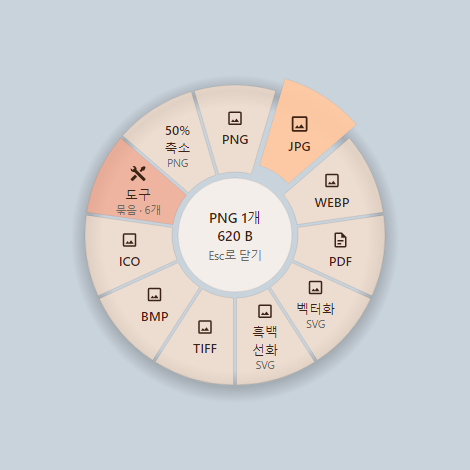
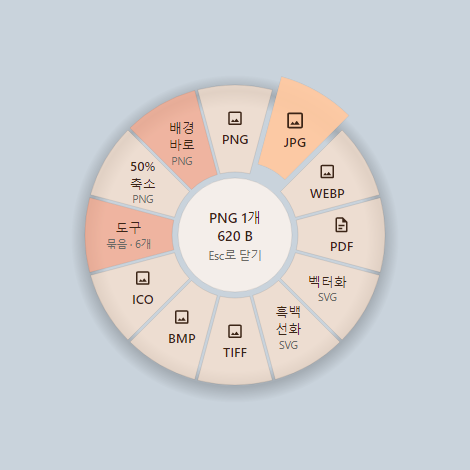
docs: Bingling 1.3 features in the guide, READMEs and changelog
The user guide (ko, en) gets a section on screen capture and the instant
eyedropper, Quick frame, Blur, Find what to hide, Spotlight, the editor
eyedropper and the new shortcut actions, with the key tables and the result
name table updated. The READMEs list the 1.3 features, CHANGELOG has the
1.3.0 section (update block in ko and en, sponsoring removed), and the old
design note says the sponsor window was removed in 1.3. Guide pictures are
refreshed from the Release screenshot tests, plus new ones for the capture
screen, the colour card and what Find finds.

Claude-Session: https://claude.ai/code/session_01TH3SQt2yp4pJo7yb993NAD

diff --git a/docs/manual/en.md b/docs/manual/en.md
@@ -10,15 +10,17 @@
 4. [Reading the ring](#reading-the-ring)
 5. [The six picture tools](#the-six-picture-tools)
 6. [Editor shortcuts](#editor-shortcuts)
-7. [The result card](#the-result-card)
-8. [Settings](#settings)
-9. [FAQ](#faq)
-10. [Credits](#credits)
+7. [Screen capture and eyedropper](#screen-capture-and-eyedropper)
+8. [The result card](#the-result-card)
+9. [Settings](#settings)
+10. [FAQ](#faq)
+11. [Credits](#credits)
 
 ## What is Bingling
 
 Drag files in File Explorer, press <kbd>Ctrl</kbd>, and a ring opens around your cursor (the app calls it the donut toolbar).
 Drop the files on a slot to convert them, or to crop, redact or draw on pictures, without leaving File Explorer.
+Capturing the screen and picking a colour from anywhere on it also happen inside Bingling, with [one shortcut each](#screen-capture-and-eyedropper).
 
 <p align="center"><img src="images/tools-ring-en.png" width="360" alt="The ring for a picture, with the Tools group fanned out"></p>
 
@@ -154,6 +156,7 @@ The **Tools** slot of the picture ring holds six tools. Rest on it and they fan 
 - **Crop, Add background, Redact and Annotate** open an editing window where the ring was.
 - **Compress and Strip metadata** run right away, without a window.
 - Crop, Add background, Redact and Annotate work on single still pictures. If an animated GIF or an icon (ICO) is among the files, their slots are dimmed.
+- The picture ring also has a **Quick frame** slot outside the Tools group. It puts [your last backdrop](#quick-frame) on the pictures without a window.
 
 ### What every editing window has
 
@@ -180,12 +183,14 @@ A word is added to the name. For `photo.jpg`:
 |---|---|
 | Crop | `photo Cropped.jpg` |
 | Add background | `photo with background.png` (always PNG) |
+| Quick frame | `photo with background.png` (the same as Add background) |
 | Redact | `photo Redacted.jpg` |
 | Annotate | `photo Annotated.jpg` |
 | Compress | `photo Compressed.jpg` |
 | Strip metadata | `photo Clean.jpg` |
+| Saving a screen capture | `Capture 2026-10-22 131500.png` (in Pictures\Bingling; the date and time are the name) |
 
-Except for Add background, the result keeps the format of the original.
+Except for Add background, Quick frame and screen captures, the result keeps the format of the original.
 
 ### Crop
 
@@ -212,6 +217,9 @@ Puts the picture on a backdrop with padding, like a card, with rounded corners a
 1. Drop pictures on **Tools → Add background**.
 2. Under **Background**, pick one of 8 gradients or 6 solid colours.
    - **Custom color**: type a colour code such as `#FF7A1A` and it applies right away.
+   - **Eyedropper** (<kbd>I</kbd>): switch it on and click the picture to take the colour you see there as the custom colour; the eyedropper then switches off.
+     <kbd>Esc</kbd> only switches the eyedropper off (the window stays). A see-through spot can't be picked.
+     **Copy code** beside it copies the code (HEX) of the current solid colour.
    - **Choose image…**: use a picture of your own as the backdrop.
    - **Photo color**: fills the background with the photo's average colour, softened with white.
 3. Move the **Padding**, **Corners** and **Shadow** sliders. Each shows its value above it on the right.
@@ -220,15 +228,26 @@ Puts the picture on a backdrop with padding, like a card, with rounded corners a
 
 The result is always a PNG. The backdrop you chose is remembered for next time.
 
+### Quick frame
+
+Drop pictures on the **Quick frame** slot of the picture ring and the backdrop goes on at once, without a window, saved as a PNG. Handy for giving several captures the same look.
+
+- It uses **what you last set in the Add background window**: the backdrop, padding, corners, shadow and aspect ratio. If you never set one, the first settings apply.
+  If your last backdrop was a picture of your own, that picture isn't remembered; the gradient or colour before it is used.
+- The slot has no settings window and no tooltip. To change the backdrop, set it under **Tools → Add background** and save. Quick frame uses it from then on.
+- Like Add background it works on single still pictures only, and saves `photo with background.png`.
+- After an update the slot is added at the end of the picture ring, if the ring has room. If it was full, drag the **Quick frame** chip onto the ring under **Settings → Donut toolbar**.
+
 ### Redact
 
-Hides what you don't want to show, such as a name or a phone number, with a black box or a mosaic.
+Hides what you don't want to show, such as a name or a phone number, with a black box, a mosaic or a blur. Bingling can also [find what to hide](#find-what-to-hide) for you.
 
 <p align="center"><img src="images/redact-ko.png" width="720" alt="The Redact window"></p>
 <p align="center"><sub>Shown with the Korean interface. The English window has the same layout.</sub></p>
 
 1. Drop pictures on **Tools → Redact**.
-2. Under **Style**, pick **Black box** (<kbd>B</kbd>) or **Mosaic** (<kbd>M</kbd>).
+2. Under **Style**, pick **Black box** (<kbd>B</kbd>), **Mosaic** (<kbd>M</kbd>) or **Blur** (<kbd>U</kbd>).
+   **Blur** first turns the box into a mosaic and blurs that, so what is blurred can't be brought back.
 3. Drag on the picture to draw a box over what to hide. Draw as many as you need.
    - Click a box to select it, drag it to move it, and drag a corner to resize it.
    - Remove the selected box with **Delete selected** or <kbd>Delete</kbd>.
@@ -238,6 +257,25 @@ Hides what you don't want to show, such as a name or a phone number, with a blac
 > photo was taken, because that info can still hold what you hid.
 
 With several pictures, the same boxes go in the same place on each. Check each picture with ‹ ›.
+
+#### Find what to hide
+
+Bingling can look for things such as phone numbers and faces in the picture and offer them as candidates. It works with **one picture only**: the boxes go on every picture the same way, so with several pictures the button is off.
+
+<p align="center"><img src="images/redact-find-ko.png" width="720" alt="The Redact window with what was found"></p>
+<p align="center"><sub>Shown with the Korean interface. The English window has the same layout.</sub></p>
+
+1. Click **Find what to hide**. “Looking…” shows for a moment.
+2. What it found is listed with its kind and text, and outlined on the picture. All are ticked at first. Untick what you want to leave.
+3. Click **Hide selected**. Boxes are added over the ticked ones in the current **Style** (black box, mosaic or blur), and the list is emptied. One **Undo** takes them all back.
+
+- It looks for: **phone numbers** (010, area codes such as 02 and 031, 050 safe numbers, +82, area codes in brackets), **e-mail addresses**, **ID numbers** (Korean resident registration numbers), **card numbers** (only those that pass a real card-number check), **addresses** (with a province or city, a district, a street name and a number) and **faces**.
+  It doesn't look for names.
+- It can't find addresses without a district, such as those in Sejong and Jeju, or addresses split over two lines.
+- It isn't perfect. Look at the picture once more before you save, and box what it missed yourself.
+- It looks **on your PC only**. It uses the text recognition built into Windows, and the picture is never sent over the internet.
+  If this PC has no language for reading text, it says “This PC has no language for reading text” and finds faces only.
+- On a work PC that blocks programs very strictly, finding may not work. Box what you want to hide yourself.
 
 ### Annotate
 
@@ -260,12 +298,17 @@ Marks up a picture with arrows, text, numbers and more.
    | Ellipse | <kbd>E</kbd> | Drag to draw. Hold <kbd>Shift</kbd> for a circle. |
    | Text | <kbd>T</kbd> | Click where you want it. <kbd>Enter</kbd> finishes, <kbd>Shift</kbd>+<kbd>Enter</kbd> starts a new line. |
    | Number | <kbd>N</kbd> | Each click adds the next number: 1, 2, 3… |
+   | Spotlight | <kbd>S</kbd> | Drag a box and everything outside it is dimmed. Hold <kbd>Shift</kbd> for a square. |
 
 3. Pick a **Color** (8 colours, or a code under **Custom color**) and a **Thickness** (Thin, Normal, Thick).
    <kbd>[</kbd> and <kbd>]</kbd> change the thickness too, which also sets the size of text and numbers.
 4. Click **Save**. Save stays off until you have drawn something.
 
 - Select a drawing with the Select tool, then click a colour or a thickness: that drawing changes at once. <kbd>Delete</kbd> removes it.
+- **Spotlight** dims everything outside its box by 55%. It uses no colour or thickness. However many you draw, the outside is dimmed once, and the other drawings stay bright on top.
+- **Eyedropper** (<kbd>I</kbd>) is the button under **Custom color**. Switch it on and click the picture: that colour becomes the custom colour, and the eyedropper switches off.
+  <kbd>Esc</kbd> only switches the eyedropper off (the window stays). It takes the colour as you see it, drawings included, and a see-through spot can't be picked.
+  **Copy code** copies the code (HEX) of the current colour.
 - **Each picture has its own drawings.** Another picture shows only what you drew on it, and undo works per picture too.
   Only the pictures you drew on are saved, and the bottom says so, such as “Only the 2 marked files will be saved”.
 - If you close the window with drawings on it, it asks “Discard your drawings and close?”. Choose **Discard** or **Keep drawing**.
@@ -304,10 +347,56 @@ Keys of each tool:
 | Tool | Keys |
 |---|---|
 | Crop | <kbd>1</kbd>–<kbd>7</kbd> pick a ratio (Free, Original, 1:1, 16:9, 9:16, 4:3, 3:4) · <kbd>Shift</kbd>+drag keeps the shape |
-| Redact | <kbd>B</kbd> Black box · <kbd>M</kbd> Mosaic · <kbd>Delete</kbd> removes the selected box |
-| Annotate | <kbd>V</kbd> <kbd>P</kbd> <kbd>H</kbd> <kbd>A</kbd> <kbd>L</kbd> <kbd>R</kbd> <kbd>E</kbd> <kbd>T</kbd> <kbd>N</kbd> pick a tool · <kbd>[</kbd> <kbd>]</kbd> thickness · <kbd>Delete</kbd> removes the selected drawing |
+| Add background | <kbd>I</kbd> Eyedropper |
+| Redact | <kbd>B</kbd> Black box · <kbd>M</kbd> Mosaic · <kbd>U</kbd> Blur · <kbd>Delete</kbd> removes the selected box |
+| Annotate | <kbd>V</kbd> <kbd>P</kbd> <kbd>H</kbd> <kbd>A</kbd> <kbd>L</kbd> <kbd>R</kbd> <kbd>E</kbd> <kbd>T</kbd> <kbd>N</kbd> <kbd>S</kbd> pick a tool · <kbd>I</kbd> Eyedropper · <kbd>[</kbd> <kbd>]</kbd> thickness · <kbd>Delete</kbd> removes the selected drawing |
 
-Add background has no keys of its own.
+While the eyedropper is on, <kbd>Esc</kbd> only switches it off. While you type a text, <kbd>I</kbd> is just a letter.
+
+## Screen capture and eyedropper
+
+These work on the screen itself, without a file. While Bingling runs, a shortcut starts each one over any program. They work on Windows.
+
+| What | Shortcut at first | Tray menu |
+|---|---|---|
+| Screen capture | <kbd>Ctrl</kbd>+<kbd>Alt</kbd>+<kbd>S</kbd> | Capture the screen |
+| Instant eyedropper | <kbd>Ctrl</kbd>+<kbd>Alt</kbd>+<kbd>C</kbd> | Pick a color |
+
+You can [change the shortcuts](#shortcuts) under **Settings → Shortcuts**. With several monitors, the one **with the mouse pointer on it** is used.
+
+### Screen capture
+
+<p align="center"><img src="images/capture-ko.png" width="640" alt="A capture with an area chosen"></p>
+<p align="center"><sub>Shown with the Korean interface, on a sample screen.</sub></p>
+
+1. Press <kbd>Ctrl</kbd>+<kbd>Alt</kbd>+<kbd>S</kbd>. The screen freezes and dims.
+2. Drag over what you want to capture. The area is bright and its size in pixels shows. An area smaller than 8 pixels is ignored.
+   The bar at the top switches between **Area**, **Full screen** and **Eyedropper**.
+3. Buttons appear below the area (above it when there is no room).
+
+   | Button | Key | What it does |
+   |---|---|---|
+   | **Edit** | | Opens the [Annotate](#annotate) window. After you mark it up, **Save** puts it in the folder below under the same name. Save stays off until you have drawn something. |
+   | **Copy** | <kbd>Enter</kbd>, <kbd>Ctrl</kbd>+<kbd>C</kbd> | Copies the picture. “Copied” shows for a moment, then it closes. |
+   | **Save** | <kbd>Ctrl</kbd>+<kbd>S</kbd> | Saves a PNG file and shows the [result card](#the-result-card). |
+
+4. To give up, press <kbd>Esc</kbd> or right-click.
+
+The file goes into **Pictures\Bingling**, named by the date and time, such as `Capture 2026-10-22 131500.png`. If that name exists, a number is added.
+
+### Instant eyedropper
+
+Gets you a colour code from anywhere on the screen.
+
+<p align="center"><img src="images/color-card-ko.png" width="300" alt="The card of a picked colour"></p>
+<p align="center"><sub>Shown with the Korean interface.</sub></p>
+
+1. Press <kbd>Ctrl</kbd>+<kbd>Alt</kbd>+<kbd>C</kbd>. The screen freezes as it is, and a magnifier follows the pointer. The centre square of the magnifier is the colour you get, and its HEX shows below.
+2. Click to **copy the HEX at once** and open a colour card. <kbd>Esc</kbd> or a right-click gives up.
+3. The card shows a swatch with the HEX, RGB and HSL. **Copy HEX**, **Copy RGB** and **Copy HSL** copy that format.
+   The card goes away after 6 seconds, on <kbd>Esc</kbd>, or when you click outside it.
+
+The screen looks frozen while you pick, so a playing video gives you the colour of that moment. In the capture screen, the **Eyedropper** in the top bar does the same.
 
 ## The result card
 
@@ -318,6 +407,7 @@ A card appears in the bottom-right corner of the screen when a conversion finish
 **When the card appears**
 
 - When you save with a picture tool (Crop, Add background, Redact, Annotate)
+- When you **Save** a screen capture
 - When a conversion from the ring makes a picture (even a quick one, so you can see and copy it at once)
 - When a conversion from the ring takes longer than 5 seconds
 - When a file failed or was skipped
@@ -423,19 +513,27 @@ Watch folders work while Bingling runs. Files still downloading or copying are c
 
 ### Shortcuts
 
-Choose how the ring opens. You can add as many gestures as you like.
+Choose how the ring opens, and the shortcuts for [screen capture and the eyedropper](#screen-capture-and-eyedropper). You can add as many gestures as you like.
 
 <p align="center"><img src="images/settings-shortcuts-en.png" width="560" alt="The Shortcuts page"></p>
+<p align="center"><sub>It shows up to the screen capture card. The eyedropper card is below it.</sub></p>
 
-There are three at first:
+There are five at first:
 
 | Gesture | At first |
 |---|---|
 | <kbd>Ctrl</kbd> + drag files | On |
 | <kbd>Ctrl</kbd>+<kbd>Alt</kbd>+<kbd>Space</kbd> (files selected in File Explorer) | On |
 | <kbd>Shift</kbd> + drag files | Off |
+| <kbd>Ctrl</kbd>+<kbd>Alt</kbd>+<kbd>S</kbd> (**Capture the screen**) | On |
+| <kbd>Ctrl</kbd>+<kbd>Alt</kbd>+<kbd>C</kbd> (**Pick a color**) | On |
+
+When you update from an earlier version, the screen capture and eyedropper shortcuts are added once. If you already used one of those keys, it is added switched off.
 
 - The switch at the top left of each card turns it on or off. Change the keys under **Modifier keys** (Ctrl, Alt, Shift, Win).
+- **Action**: on a keyboard shortcut card, choose **Open the donut toolbar**, **Capture the screen** or **Pick a color**. To change the keys, click **Record** and press the new keys.
+  Choosing **Capture the screen** or **Pick a color** sets **Active in** to “Everywhere”.
+- A <kbd>Ctrl</kbd>+<kbd>Alt</kbd> shortcut pressed with the right <kbd>Alt</kbd> (AltGr) is not treated as a shortcut, so a shortcut doesn't break typing letters with AltGr on your keyboard. Use the left <kbd>Alt</kbd>.
 - **Active in**: “File managers and desktop” opens the ring only in File Explorer and on the desktop. You can choose “Everywhere” instead.
 - **Never trigger in these apps**: add a program in which you need Ctrl + drag for something else.
 - To take a break, choose **Pause shortcuts** in the tray icon's menu.
@@ -453,7 +551,7 @@ No. Results are always saved as new files and the original stays as it is. Even 
 Only a watch folder set to “Move the original to "originals"” moves the original, into that folder.
 
 **Are my files uploaded anywhere?**
-No. Every conversion and edit happens on your PC. Bingling only goes online to download engines and to check for updates.
+No. Every conversion and edit happens on your PC, and so do screen capture and Redact's “Find what to hide”. Bingling only goes online to download engines and to check for updates.
 
 **Can it convert old .doc and .ppt files?**
 Yes, with the **LibreOffice** engine. Without it the slot is dimmed, and pointing at it tells you to install it.

diff --git a/CHANGELOG.md b/CHANGELOG.md
@@ -15,6 +15,52 @@ without lines shows the English ones):
 - `recommended`: bug fixes. The card shows once per version.
 - `optional`: new features only. No card, the sidebar button only.
 
+## 1.3.0
+
+<!-- update
+level: optional
+ko: 빙글링 자체 화면 캡처(Ctrl+Alt+S)와 바로 스포이트(Ctrl+Alt+C)가 생겼어요
+ko: 가리기에 흐림과 "가릴 곳 찾기"(전화번호·이메일·주민등록번호·카드번호·주소·얼굴)가 생겼어요
+ko: 그리기에 스포트라이트와 스포이트가, 배경 넣기에도 스포이트가 생겼어요
+ko: 사진 링에 지난번 배경을 창 없이 바로 넣는 "배경 바로" 칸이 생겼어요
+ko: 후원 창과 후원 링크를 뺐어요
+en: Bingling's own screen capture (Ctrl+Alt+S) and an instant eyedropper (Ctrl+Alt+C)
+en: Redact can blur, and "Find what to hide" spots phone numbers, e-mails, IDs, cards, addresses and faces
+en: Annotate has a spotlight, and Annotate and Add background have an eyedropper
+en: A "Quick frame" slot on the picture ring puts your last backdrop on pictures without a window
+en: The Sponsor window and the sponsor links are gone
+-->
+
+- **Screen capture**: <kbd>Ctrl</kbd>+<kbd>Alt</kbd>+<kbd>S</kbd> (or **Capture the screen** in the tray menu) freezes the
+  screen under the pointer. Drag over an area, then **Edit** it in the Annotate window, **Copy** it to the clipboard or
+  **Save** it as a PNG in Pictures\Bingling, named `Capture 2026-10-22 131500.png`. The top bar switches to the full
+  screen or to the eyedropper. It captures one monitor at a time (the one with the pointer); there is no window, scrolling or video capture.
+- **Instant eyedropper**: <kbd>Ctrl</kbd>+<kbd>Alt</kbd>+<kbd>C</kbd> (**Pick a color** in the tray menu) shows a
+  magnifier next to the pointer over the frozen screen. A click copies the HEX code and opens a card with the HEX, RGB
+  and HSL and a button to copy each.
+- **Shortcut actions**: a keyboard shortcut in Settings › Shortcuts now has an **Action**: open the ring, capture the
+  screen or pick a colour. Both new shortcuts are added once on update (switched off when you already use the key). A
+  Ctrl+Alt combination pressed with the right Alt (AltGr) is never a shortcut, so typing letters with AltGr still works.
+- **Blur** in Redact (<kbd>U</kbd>): the box is turned into a mosaic first and the mosaic is blurred, so what is
+  blurred can't be brought back.
+- **Find what to hide** in Redact: it looks in a single picture for phone numbers (010, area codes, 050 safe numbers,
+  +82), e-mail addresses, resident registration numbers, card numbers (only those that pass a real card check),
+  addresses (province or city, district, street and number) and faces. Names aren't looked for, and addresses without
+  a district (Sejong, Jeju) or on two lines are missed. What it finds is listed, outlined on the picture and ticked;
+  **Hide selected** adds boxes in the current style, and one Undo takes them back. It uses the text recognition of
+  Windows on your PC only, nothing is uploaded. Without a language for reading text, it finds faces only. It may not
+  work on a PC that blocks programs very strictly.
+- **Spotlight** in Annotate (<kbd>S</kbd>): drag a box and everything outside it is dimmed by 55%.
+- **Eyedropper** in Annotate and Add background (<kbd>I</kbd>): click the picture to take that colour as the custom
+  colour (<kbd>Esc</kbd> only switches it off; see-through spots can't be picked). **Copy code** copies the HEX of the
+  current colour.
+- **Quick frame**: a new twelfth slot on the picture ring. It adds the backdrop you last set in the Add background
+  window (not a picture of your own) without opening a window, and saves `photo with background.png`. Libraries from
+  before get it at the end of the picture ring when it has room.
+- **Sponsoring is gone for now**: the Sponsor window and button, the list of supporters and the links to the original
+  author's accounts are removed. They come back when Bingling has accounts of its own. "Help Bingling grow" on the
+  About page now asks for a GitHub star, a bug report or an idea.
+
 ## 1.2.1
 
 <!-- update

diff --git a/README.ko.md b/README.ko.md
@@ -31,13 +31,18 @@
   일부 형식은 추가 엔진이 필요하고, 그때만 내려받아요([엔진](docs/ENGINES.md)).
 - **사진 도구**: 링의 “도구” 칸에 모여 있어요.
   - 자르기
-  - 배경 넣기: 그라데이션, 단색, 내 사진, 사진 색
-  - 가리기: 검은 상자 또는 모자이크. 사진 정보(EXIF)도 함께 지워요.
-  - 그리기: 펜, 형광펜, 화살표, 도형, 글자, 번호
+  - 배경 넣기: 그라데이션, 단색, 내 사진, 사진 색. 링의 **배경 바로** 칸은 창 없이 지난번 배경을 바로 넣어요.
+  - 가리기: 검은 상자, 모자이크, 흐림. **가릴 곳 찾기**가 전화번호, 이메일, 주민등록번호, 카드번호, 주소, 얼굴을
+    내 PC 안에서 찾아 줘요. 사진 정보(EXIF)도 함께 지워요.
+  - 그리기: 펜, 형광펜, 화살표, 도형, 글자, 번호, 상자 바깥을 어둡게 하는 스포트라이트
   - 압축
   - 사진 정보 지우기
 
   편집 창에서 **복사**(<kbd>Ctrl</kbd>+<kbd>C</kbd>)를 누르면 파일을 만들지 않고 결과를 바로 붙여 넣을 수 있어요.
+  배경 넣기와 그리기 창의 **스포이트**로 사진에서 색을 찍을 수도 있어요.
+- **화면 캡처와 스포이트**(Windows): <kbd>Ctrl</kbd>+<kbd>Alt</kbd>+<kbd>S</kbd>를 누르면 화면이 멈추고, 영역을 골라
+  편집하거나 복사하거나 저장해요. <kbd>Ctrl</kbd>+<kbd>Alt</kbd>+<kbd>C</kbd>는 화면 어디서든 색을 찍어 HEX 코드를 복사해요.
+  두 단축키 모두 설정에서 바꿀 수 있어요.
 - **피치 글래스 테마**: 은은하게 비치는 유리 느낌의 테마예요. 밝은 모드와 어두운 모드가 있어요.
 - **알림 카드**: 변환이 끝나면 카드가 떠요. “복사”를 누르면 결과를 대화창이나 문서에 붙여 넣을 수 있고, 사진을 누르면 결과가 열려요.
 - **여섯 가지 언어**: 한국어, English, 简体中文, Español, Polski, हिन्दी

diff --git a/README.md b/README.md
@@ -32,13 +32,19 @@ window, watch folders and the [command line](#command-line).
   Some formats need an extra engine, which is downloaded only when you need it ([engines](docs/ENGINES.md)).
 - **Picture tools**, together in the ring's "Tools" slot:
   - Crop
-  - Add background: gradients, solid colours, your own picture or the picture's own colour
-  - Redact: black box or mosaic. The photo info (EXIF) is removed from the result too.
-  - Annotate: pen, highlighter, arrow, shapes, text and numbers
+  - Add background: gradients, solid colours, your own picture or the picture's own colour. The ring's **Quick frame** slot
+    puts your last backdrop on pictures at once, without a window.
+  - Redact: black box, mosaic or blur. **Find what to hide** spots phone numbers, e-mail addresses, ID and card numbers,
+    addresses and faces for you, on your PC only. The photo info (EXIF) is removed from the result too.
+  - Annotate: pen, highlighter, arrow, shapes, text, numbers and a spotlight that dims everything around a box
   - Compress
   - Strip metadata
 
   **Copy** (<kbd>Ctrl</kbd>+<kbd>C</kbd>) in an editing window puts the result on the clipboard without making a file.
+  An **eyedropper** in the Add background and Annotate windows picks a colour from the picture.
+- **Screen capture and eyedropper** (Windows): <kbd>Ctrl</kbd>+<kbd>Alt</kbd>+<kbd>S</kbd> freezes the screen so you can
+  choose an area to edit, copy or save. <kbd>Ctrl</kbd>+<kbd>Alt</kbd>+<kbd>C</kbd> picks a colour from anywhere on the
+  screen and copies its HEX code. Both shortcuts can be changed in Settings.
 - **Peach Glass theme**: a soft, see-through glass look, in a light and a dark mode.
 - **Result card**: when a conversion finishes a card appears. "Copy" puts the result on the clipboard so you can paste it
   into a chat or a document, and clicking the picture opens the result.

diff --git a/README.zh-CN.md b/README.zh-CN.md
@@ -31,13 +31,17 @@
   部分格式需要额外的引擎，只在需要时才下载（[引擎](docs/ENGINES.md)）。
 - **图片工具**，集中在圆环的“工具”格里：
   - 裁剪
-  - 添加背景：渐变、纯色、自己的图片或图片本身的颜色
-  - 遮挡：黑框或马赛克，结果中的照片信息（EXIF）也会一并清除
-  - 标注：画笔、荧光笔、箭头、形状、文字、编号
+  - 添加背景：渐变、纯色、自己的图片或图片本身的颜色。圆环里的“快速 背景”格不开窗口，直接套用上次的背景
+  - 遮挡：黑框、马赛克或模糊。“查找要遮挡的内容”会在本机上找出电话号码、电子邮件、身份证号、银行卡号、地址和人脸，
+    结果中的照片信息（EXIF）也会一并清除
+  - 标注：画笔、荧光笔、箭头、形状、文字、编号，以及把方框外变暗的聚光灯
   - 压缩
   - 清除元数据
 
   在编辑窗口中按**复制**（<kbd>Ctrl</kbd>+<kbd>C</kbd>），不生成文件就能直接粘贴结果。
+  添加背景和标注窗口里的**取色**（吸管）可以从图片上取色。
+- **截取屏幕和取色**（Windows）：按 <kbd>Ctrl</kbd>+<kbd>Alt</kbd>+<kbd>S</kbd> 屏幕会定格，选择区域后可以编辑、复制或保存。
+  按 <kbd>Ctrl</kbd>+<kbd>Alt</kbd>+<kbd>C</kbd> 可以在屏幕任意位置取色，并复制它的 HEX 代码。两个快捷键都可以在设置中修改。
 - **蜜桃玻璃主题**：柔和通透的玻璃质感，有浅色和深色两种模式。
 - **结果卡片**：转换完成后会弹出卡片。点“复制”可以把结果粘贴到聊天或文档里，点图片则打开结果。
 - **六种语言**：简体中文、English、한국어、Español、Polski、हिन्दी

diff --git a/docs/superpowers/specs/2026-10-19-filee-plus-design.md b/docs/superpowers/specs/2026-10-19-filee-plus-design.md
@@ -256,7 +256,7 @@
   - 시작 프로그램 이름
   - 탐색기 오른쪽 메뉴의 이름, 레지스트리 키, CLSID, Windows 11 메뉴 패키지 이름
   - '보내기' 바로 가기 이름
-- **원작자 쪽으로 가는 연결:** 피드백, 형식 요청 같은 곳은 포크 저장소로 바꾸거나 끈다. 원작자가 만들지 않은 기능의 오류 보고를 받지 않게 하려는 것이다. 후원 창은 원작자 후원으로 그대로 둔다.
+- **원작자 쪽으로 가는 연결:** 피드백, 형식 요청 같은 곳은 포크 저장소로 바꾸거나 끈다. 원작자가 만들지 않은 기능의 오류 보고를 받지 않게 하려는 것이다. 후원 창은 원작자 후원으로 그대로 둔다. (1.3에서 뺌: 빙글링 후원 계정이 생기면 다시 넣는다.)
 - **업데이트:** Filee에 이미 있는 자동 업데이트(`UpdateService`)를 그대로 쓴다.
   - 동작: 앱이 켜진 직후와 그 뒤 6시간마다 GitHub 저장소의 최신 릴리스를 확인한다. 새 버전이 있으면 바뀐 내용과 함께 알린다. '업데이트'를 누르면 설치 파일을 받아 SHA-256을 확인한 뒤 진행 창만 띄워 설치하고, 설정을 지킨 채 다시 켠다. 설치할 때 관리자 확인이 한 번 뜬다. 압축(포터블)판은 다운로드 페이지를 연다.
   - `FileeRepositoryUrl`을 사용자의 GitHub 포크 주소로 바꾼다. 저장소는 **공개**여야 한다. 비공개면 로그인 없이 릴리스를 볼 수 없어서 확인이 404로 실패한다.
